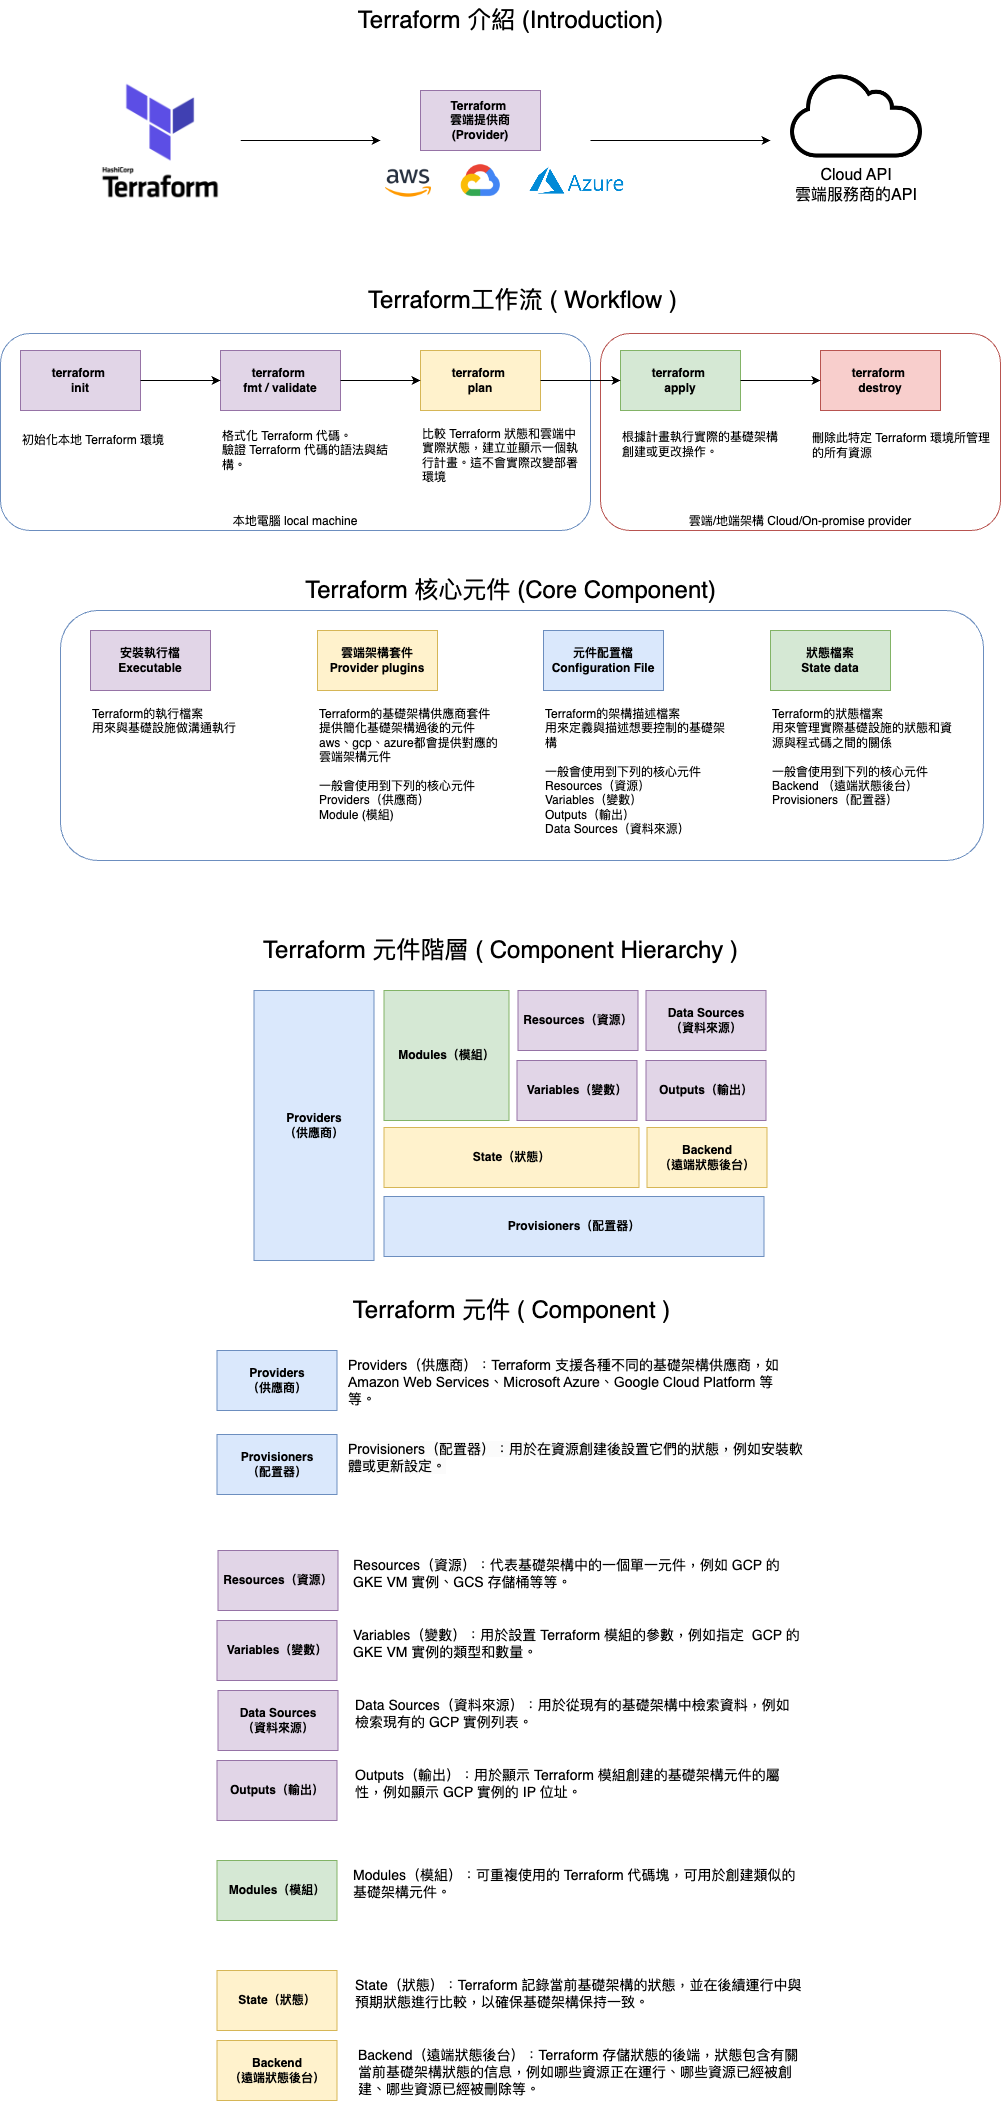
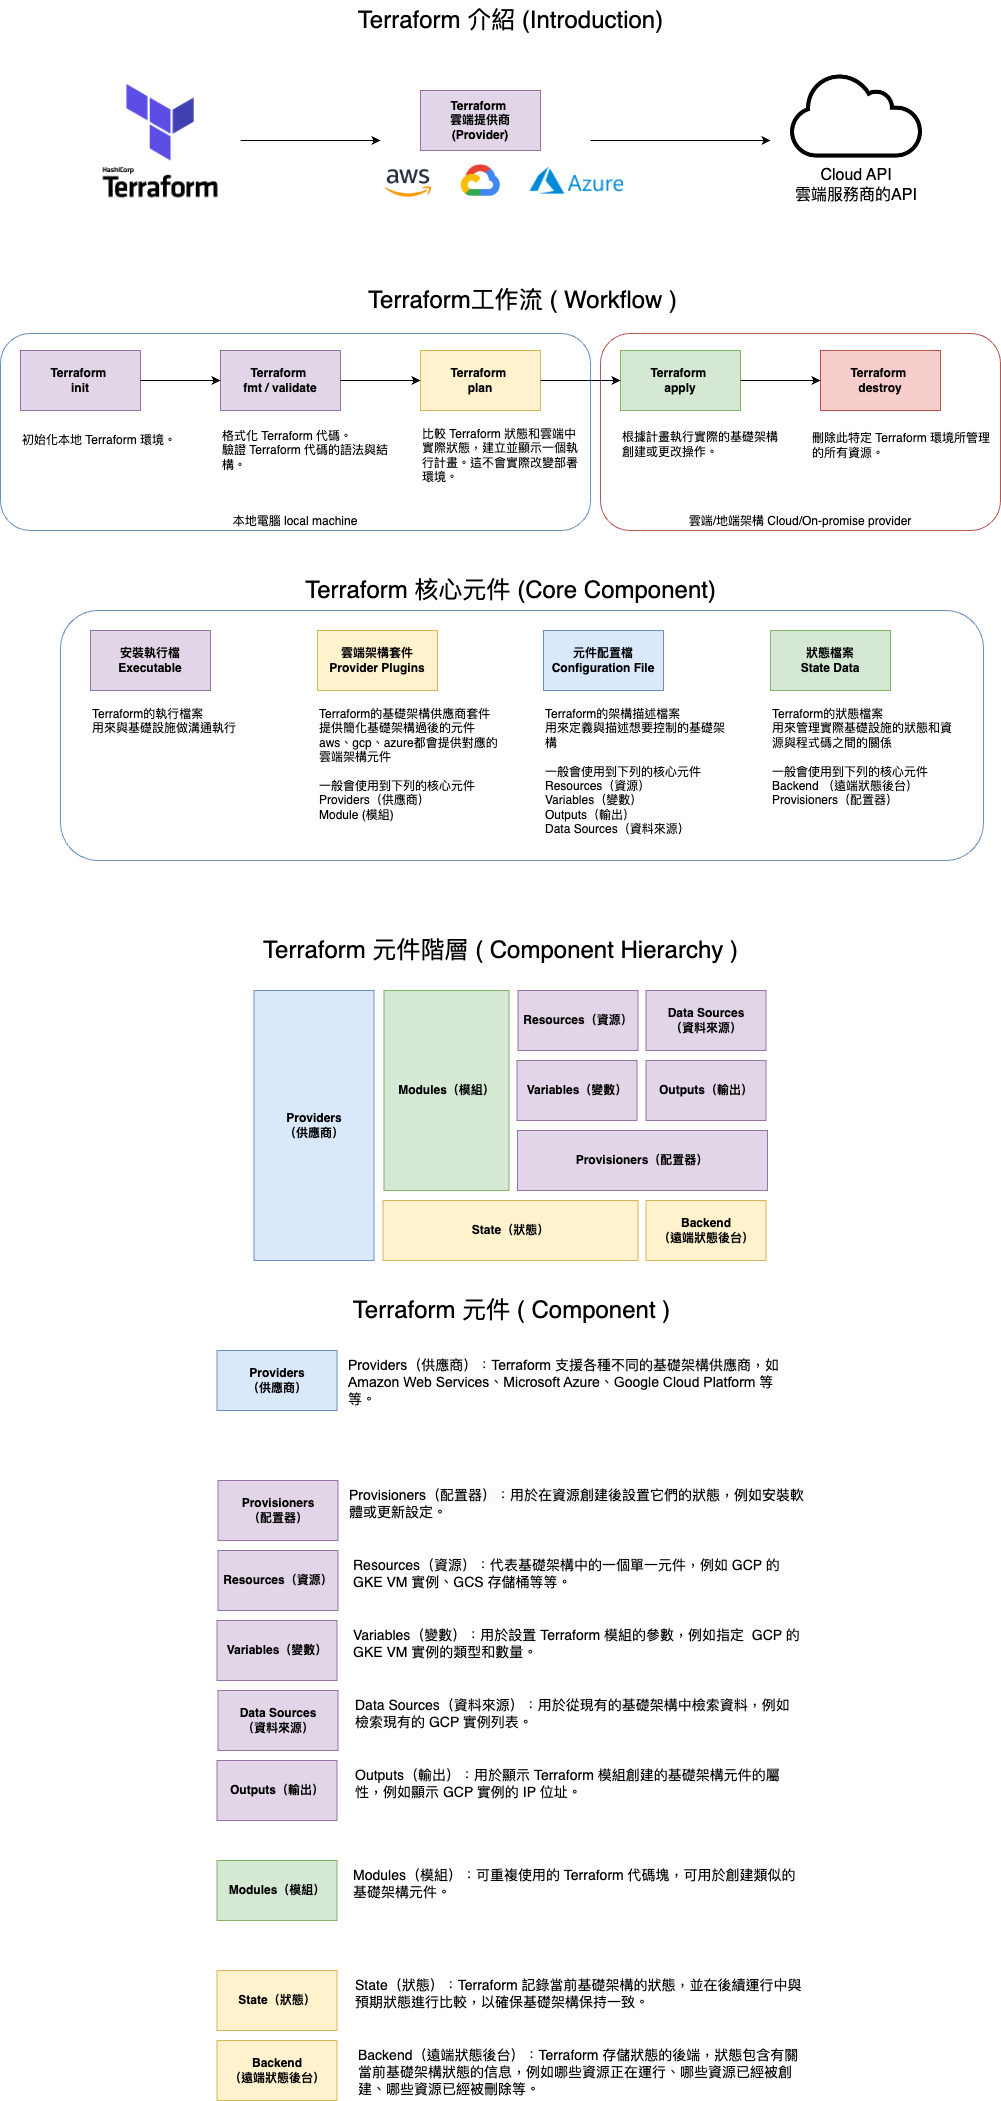
update readme

Changed region(s): [[0.3716, 0.495, 0.7742, 0.6188], [0.2168, 0.6806, 0.8052, 0.7425]]

diff --git a/README.md b/README.md
@@ -2,9 +2,13 @@
 
 [Terraform 從零開始 10+實戰Lab打造GCP雲端自動化架構](https://github.com/qwedsazxc78/Terraform-from-zero-to-hero-10-Lab-GCP-Infrastucture-as-Code)
 
-課程大綱
+## 課程大綱
 
-- Chap1-課程介紹
-- Chap2-快速開始
-- Chap3-Terrafrom-基礎篇
-- Chap3-Terrafrom-進階篇
+- [Chap1-課程介紹](https://github.com/qwedsazxc78/Terraform-from-zero-to-hero-10-Lab-GCP-Infrastucture-as-Code/tree/main/Chap1-%E8%AA%B2%E7%A8%8B%E4%BB%8B%E7%B4%B9)
+- [Chap2-快速開始](https://github.com/qwedsazxc78/Terraform-from-zero-to-hero-10-Lab-GCP-Infrastucture-as-Code/tree/main/Chap2-%E5%BF%AB%E9%80%9F%E9%96%8B%E5%A7%8B)
+- [Chap3-Terrafrom-基礎篇](https://github.com/qwedsazxc78/Terraform-from-zero-to-hero-10-Lab-GCP-Infrastucture-as-Code/tree/main/Chap3-Terrafrom-%E5%9F%BA%E7%A4%8E%E7%AF%87)
+- [Chap3-Terrafrom-進階篇](https://github.com/qwedsazxc78/Terraform-from-zero-to-hero-10-Lab-GCP-Infrastucture-as-Code/tree/main/Chap3-Terrafrom-%E9%80%B2%E9%9A%8E%E7%AF%87)
+
+## Terraform Overview
+
+[一張圖秒懂-Terraform的所有元件](https://github.com/qwedsazxc78/Terraform-from-zero-to-hero-10-Lab-GCP-Infrastucture-as-Code/blob/main/Chap3-Terrafrom-%E5%9F%BA%E7%A4%8E%E7%AF%87/Ch3-1-2-%E4%B8%80%E5%BC%B5%E5%9C%96%E7%A7%92%E6%87%82-Terraform%E7%9A%84%E6%89%80%E6%9C%89%E5%85%83%E4%BB%B6/Terraform%20Overview.png)

diff --git a/Chap3-Terrafrom-基礎篇/README.md b/Chap3-Terrafrom-基礎篇/README.md
@@ -1,31 +1,18 @@
-# Lab 步驟
+# 大綱介紹
 
-1. 先進入state-bucket 資料夾產生遠端的gcs作為backend
+Terraform 基礎篇
 
-```BASH
-cd state-bucket
-
-terraform init
-terraform apply -auto-approve
-
-# or 快捷部署
-
-tf init
-tfd
-```
-
-2. 回到原先路徑，部署新的 bucket
-
-```BASH
-cd ..
-
-terraform init
-terraform apply -auto-approve
-
-# or 快捷部署
-
-tf init
-tfd
-```
-
-3. 觀察GCS檔案是否產生state.json檔案
+- Ch3.1.1 Terraform的介紹與安裝
+- Ch3.1.2 一張圖秒懂 Terraform的所有元件
+- Ch3.1.3 Terraform workflow 工作流程
+- Ch3.1.4 Tips 增加效率 - 使用bash alias
+- Ch3.1.5 Provider - version)的概念與使用
+- Ch3.1.6 Resources 資源 的概念與使用
+- Ch3.1.7 Provisioners 配置器的概念與使用
+- Ch3.1.8 Variables 變數 & Outputs 輸出的概念與使用
+- Ch3.1.9 Variables 變數的種類與使用順序
+- Ch3.1.10 Data Sources 資料來源 的概念與使用
+- Ch3.1.11 Exam Test
+- Ch3.1.12 State的概念與使用
+- Ch3.1.13 Backend的概念與使用
+- Ch3.1.14 Lab1: 產生GCS作為遠方存儲狀態 state 檔案的元件

diff --git a/Chap3-Terrafrom-基礎篇/Ch3-1-14-Lab1-產生GCS作為遠方存儲狀態-state-檔案的元件/README.md b/Chap3-Terrafrom-基礎篇/Ch3-1-14-Lab1-產生GCS作為遠方存儲狀態-state-檔案的元件/README.md
@@ -1,0 +1,31 @@
+# Lab 步驟
+
+1. 先進入state-bucket 資料夾產生遠端的gcs作為backend
+
+```BASH
+cd state-bucket
+
+terraform init
+terraform apply -auto-approve
+
+# or 快捷部署
+
+tf init
+tfd
+```
+
+2. 回到原先路徑，部署新的 bucket
+
+```BASH
+cd ..
+
+terraform init
+terraform apply -auto-approve
+
+# or 快捷部署
+
+tf init
+tfd
+```
+
+3. 觀察GCS檔案是否產生state.json檔案

diff --git a/Chap2-快速開始/README.md b/Chap2-快速開始/README.md
@@ -1,1 +1,8 @@
 # 大綱介紹
+
+藉由第一個實作Lab，了解 現代IT架構面臨的問題，以及 Terraform 與 IAC 帶來的解決方案
+
+- Ch2.1 申請GCP免費帳號
+- Ch2.2 Lab0: 使用Terraform產生你的第一個雲端設施服務：GCS存儲服務
+- Ch2.3 現代IT架構面臨的問題
+- Ch2.4 Terraform 與 IAC的解決方案

diff --git a/Chap1-課程介紹/README.md b/Chap1-課程介紹/README.md
@@ -1,1 +1,8 @@
 # 大綱介紹
+
+了解如何使用該課程，與下載對應的資源
+
+- Ch1.1	課程介紹與整體架構
+- Ch1.2	關於講師
+- Ch1.3	如何使用udemy來研習課程
+- Ch1.4	下載教學資源
